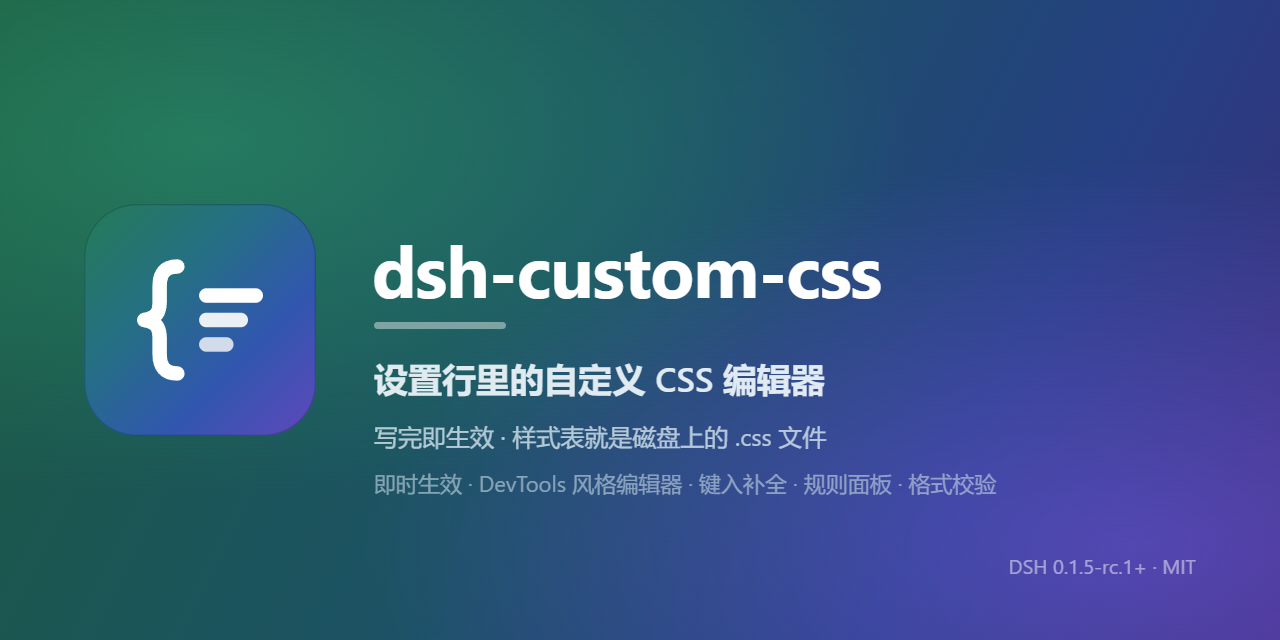
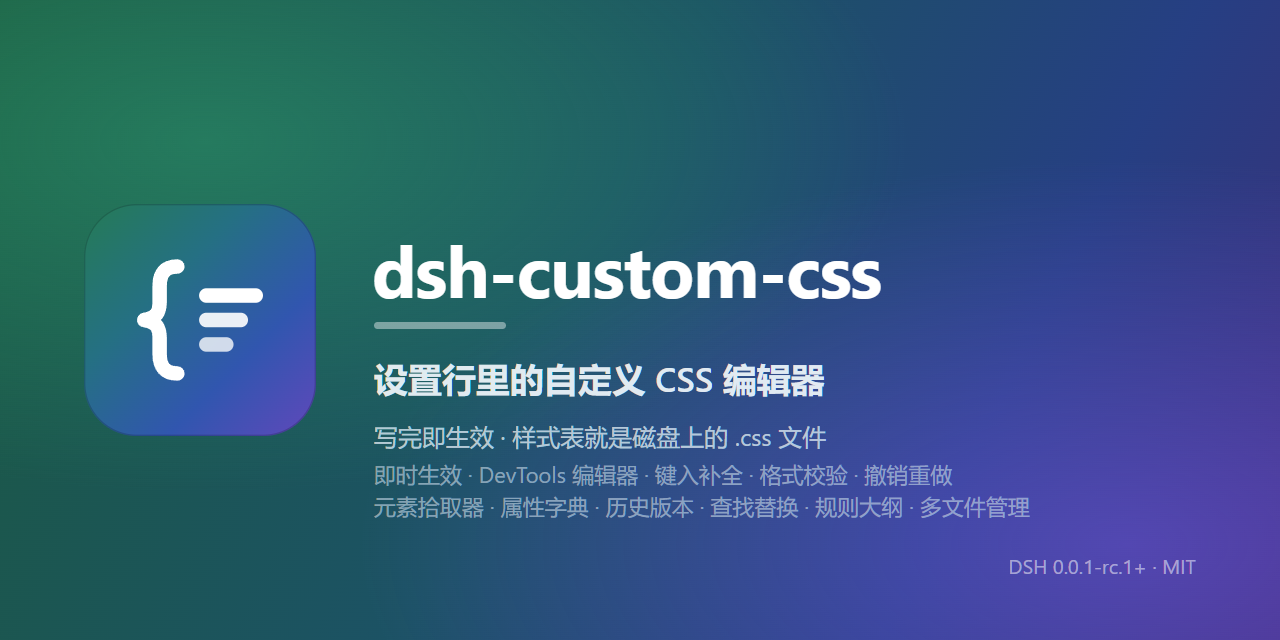
docs(assets): 社交预览卡的版本标签与功能清单更新，并接进自动化
## 你点出的那处

`assets/social-preview.svg` 右下角写着 `DSH 0.1.5-rc.1+ · MIT` —— 与 README 同一类过期，
而且这是**对外最显眼的一处**（GitHub 社交卡）。位图 `social-preview.png` 里也是同一行字。

## 改了什么

**① 版本标签** → `DSH 0.0.1-rc.1+`。写「最低断言过的版本 + `+`」而不是某个具体新版：
只在支持下界真的提高时才变，不会每次 DSH 发版都跟着改。

**② 功能清单从 5 项扩到 11 项。** 原来那行只列了 `即时生效 · DevTools 风格编辑器 · 键入补全 ·
规则面板 · 格式校验` —— 而卡片缺的恰好是最有辨识度的几个（元素拾取器、属性字典、历史版本、
查找替换）。先在浏览器里量出右边界：一行到 1180px 还有约 180px 余量，于是排成两行：

    即时生效 · DevTools 编辑器 · 键入补全 · 格式校验 · 撤销重做
    元素拾取器 · 属性字典 · 历史版本 · 查找替换 · 规则大纲 · 多文件管理

（比 README 那 14 项徽章仍精简；实测最宽一行 656px，右边界 1030px，不溢出。）

**③ 位图重新出。** 用浏览器对 `<svg>` 元素截图 1280×640：**541 KB**，而原来那份 1.03 MB。
两份内容已核对一致。

**④ 接进 `npm run compat:update`** —— 版本标签与 README 同步写回，并有同样的不动点自检。
SVG 改动后脚本会打印提醒「请重新生成 PNG」，因为出位图需要浏览器渲染，而那个脚本必须保持
只依赖网络与 npm（它同时跑在 CI 里）。README 的文件树一节写明了这一步怎么做。

## 过程中修掉的一处自己的错误

两行文字**竖直方向重叠了**：我按 28px 行距排，而 22px 字号的实际字形包围盒高 30px。
实测 `twoLineGapPx = -2`，改成 483/515（行距 32px）后是 +2px，与版本行相距 31px。
这一类问题肉眼在缩略图上不容易看出，是量出来的。

## 全仓库扫描的结论

除这一处，**没有其他文件过期**。扫描 56 个文本文件（排除 CHANGELOG 与 temp），
命中的其余位置分两类，都不该改：

  · `publish.yml`（6 处）与 `update-compat.mjs`（若干）里的**历史注释** —— 记的是当时踩的坑
    （「把 v0.2.0 的 tag 移走之后…」），改掉它们就等于抹掉证据。
  · README 里 `0.1.2-rc.1 ~ 0.1.5-rc.1 已真机验证` —— 这是**真机**那一档的事实，本来就该是两个版本。

## 验证

  · 反向验证：手工把标签改回 `0.1.5-rc.1+` → 脚本纠正为 `0.0.1-rc.1+`，并打印重生成 PNG 的提醒
  · 幂等：连跑三次，三个文件的内容哈希完全一致
  · 社交卡实测：渲染后最宽一行 1030px（上限 1180）、两行不重叠、版本标签正确
  · npm test 与无障碍门禁全过

diff --git a/README.md b/README.md
@@ -312,7 +312,7 @@ dsh-custom-css/
 │   ├── icon.svg            # 图标（矢量，README 顶部用的就是它）
 │   ├── icon-512.png        # 同一图标 512px，带透明通道，可用于仓库头像
 │   ├── social-preview.svg  # 社交预览卡（1280×640）源文件
-│   └── social-preview.png  # 同上，位图版
+│   └── social-preview.png  # 同上，位图版（GitHub 社交预览与引用都取这张）
 ├── compat.json             # 跨版本兼容契约（槽位 / inject id / 已验证版本）
 ├── naming.md               # 见 docs/naming.md
 ├── .editorconfig
@@ -322,6 +322,15 @@ dsh-custom-css/
 ├── CHANGELOG.md
 └── README.md
 ```
+
+社交卡（`assets/social-preview.*`）的版本标签由 `npm run compat:update` 维护，但**位图要手工重新出** ——
+出位图需要浏览器渲染，而那个脚本必须保持只依赖网络与 npm（它同时跑在 CI 里）：
+
+```
+打开 assets/social-preview.svg → 对 <svg> 元素截图 1280×640 → 存回 assets/social-preview.png
+```
+
+（SVG 改动后脚本会打印提醒。实测这个做法出的位图 541 KB，而早先那份是 1.03 MB。）
 
 ## 已知限制
 
